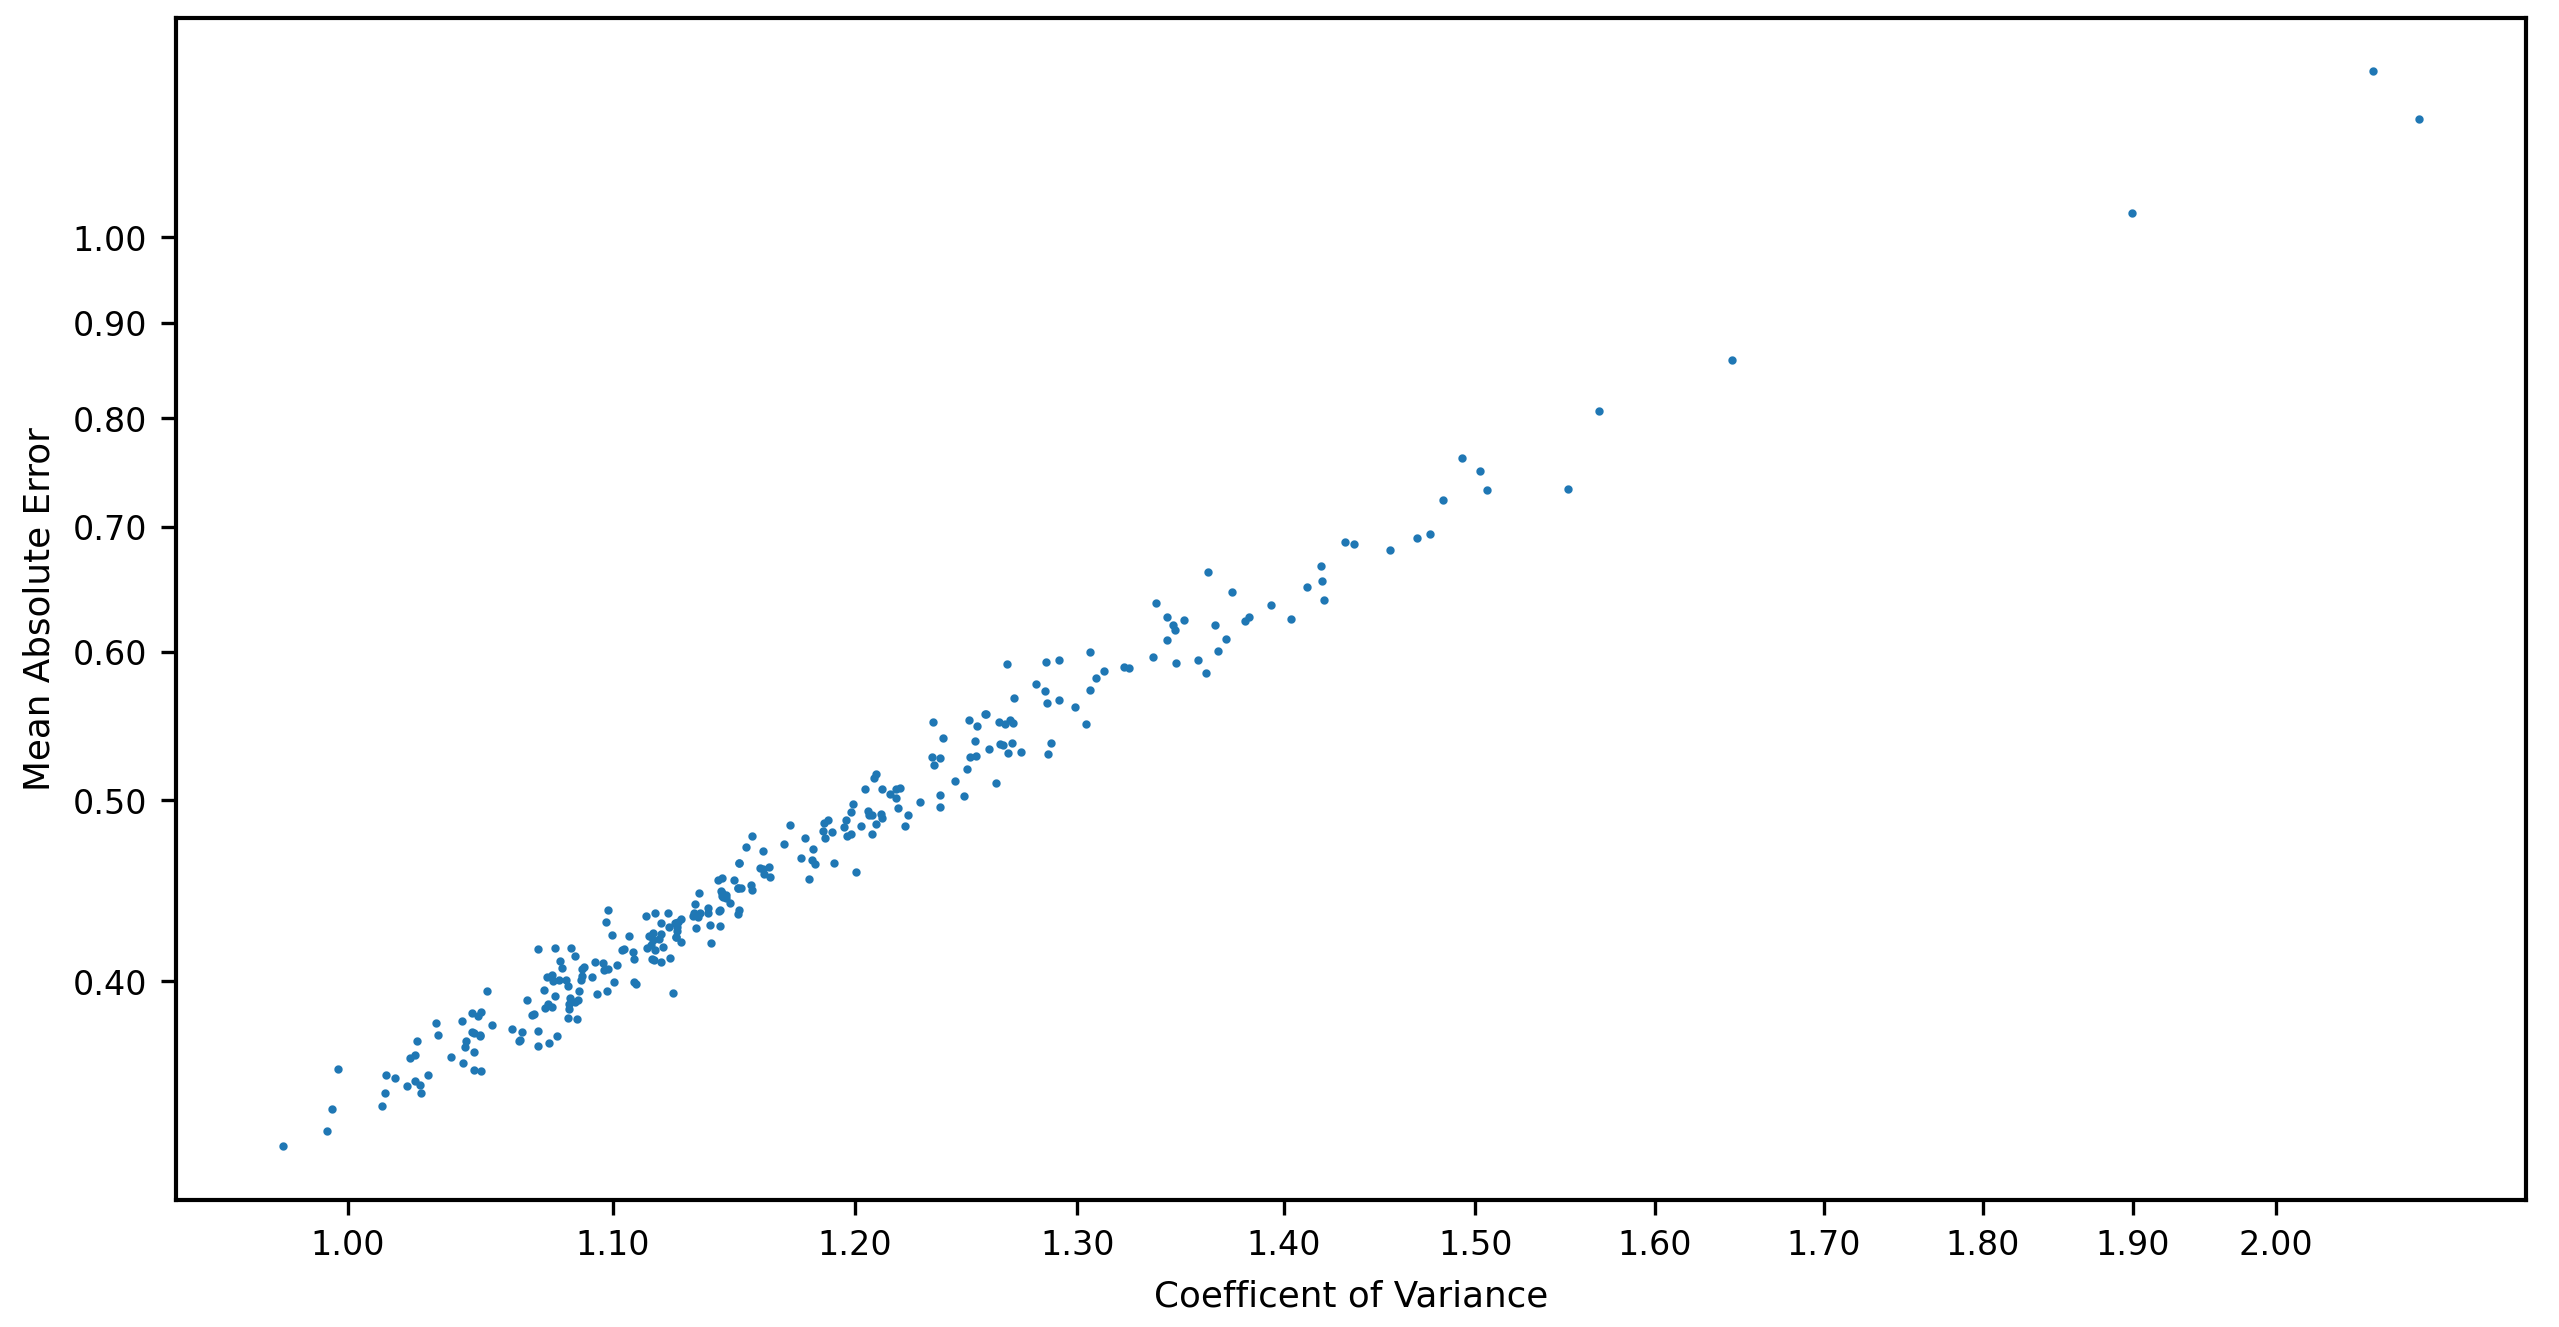
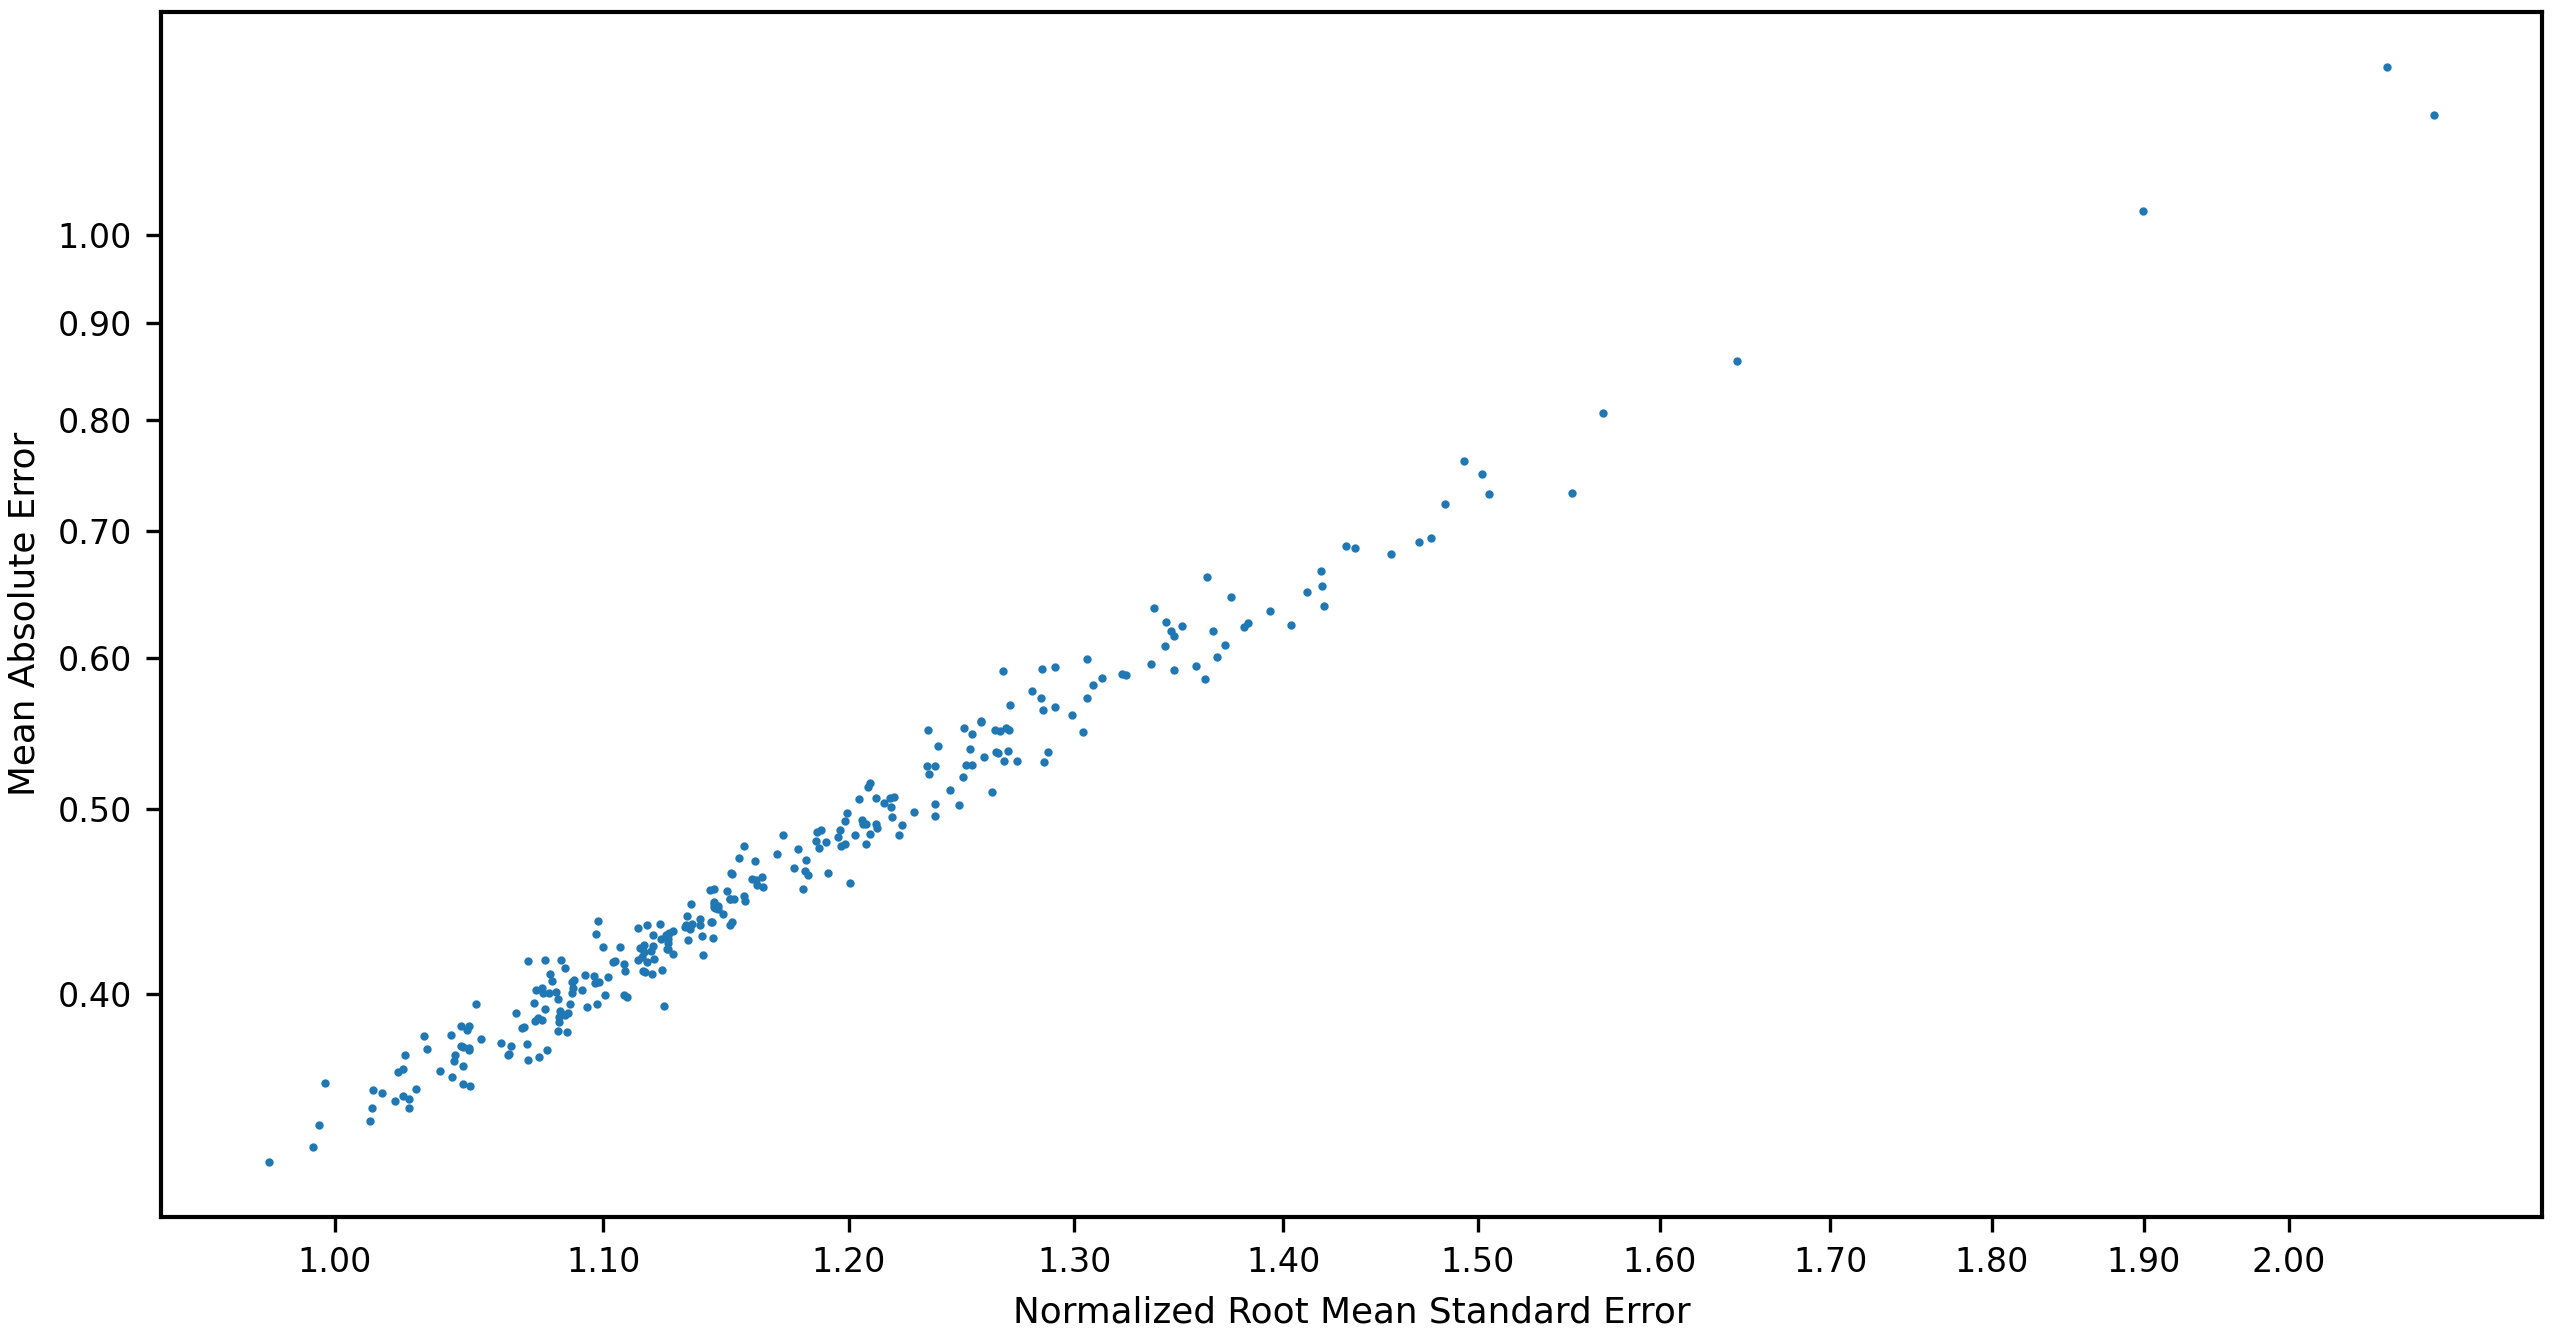
Added function axis with log spacing

Changed region(s): [[0.0, 0.0, 1.0, 1.0], [0.1235, 0.4635, 0.4939, 0.8342]]

diff --git a/goof_graph.py b/goof_graph.py
@@ -1,0 +1,69 @@
+import pandas as pd
+import re
+import matplotlib.pyplot as plt
+
+# Global font sizes
+plt.rcParams.update({
+    'font.size':        6,
+    'axes.titlesize':   6,
+    'axes.labelsize':   6,
+    'xtick.labelsize':  6,
+    'ytick.labelsize':  6,
+})
+
+# Load & parse
+df = pd.read_csv('results.csv')
+df.columns = df.columns.str.lower().str.strip()
+
+sizes, shapes, epochs, lrs, optimizers = [], [], [], [], []
+for model_name in df["model"]:
+    sizes.append("small"  if "small"  in model_name else
+                 "medium" if "medium" in model_name else
+                 "large"  if "large"  in model_name else "unknown")
+    match_shape  = re.search(r'layers_(.*?)_\d+', model_name)
+    match_epochs = re.search(r'_(\d+)_',      model_name)
+    match_lr     = re.search(r'_(0\.\d+)_',   model_name)
+    shapes.append(match_shape.group(1).replace('_',' ') if match_shape else "unknown")
+    epochs.append(int(match_epochs.group(1))      if match_epochs else -1)
+    lrs.append(float(match_lr.group(1))           if match_lr else 5e-05)
+    optimizers.append("AdamW" if "AdamW" in model_name else "Adam")
+
+df["size"]         = sizes
+df["shapetype"]    = shapes
+df["epochs"]       = epochs
+df["learningrate"] = lrs
+df["optimizer"]    = optimizers
+
+df['xgroup'] = df['size'] + ' | ' + df['shapetype']
+df['ygroup'] = df['epochs'].astype(str) + ' | ' + df['learningrate'].astype(str)
+
+# 2) Compute global color range
+global_min = df['mse'].min()
+global_max = df['mse'].max()
+
+# 3) Plot with the same vmin/vmax
+fig, axes = plt.subplots(1, 2, figsize=(14, 6), dpi=300, constrained_layout=True)
+for ax, opt in zip(axes, ['Adam', 'AdamW']):
+    subset = df[df['optimizer'] == opt]
+    pivot = subset.pivot(index='ygroup', columns='xgroup', values='mse')
+    im = ax.imshow(
+        pivot.values,
+        aspect='auto',
+        vmin=global_min,
+        vmax=global_max
+    )
+    ax.set_xticks(range(len(pivot.columns)))
+    ax.set_xticklabels(pivot.columns, rotation=45, ha='right')
+    ax.set_yticks(range(len(pivot.index)))
+    ax.set_yticklabels(pivot.index, rotation=0)
+    ax.set_xlabel('Size | ShapeType')
+    ax.set_ylabel('Epochs | LearningRate')
+
+    # individual colorbar
+    cbar = fig.colorbar(im, ax=ax, label='MSE')
+    cbar.ax.tick_params(labelsize=6)
+    cbar.set_label('MSE', fontsize=8)
+
+# plt.tight_layout()
+plt.savefig("heatmaps.png", dpi=300)
+plt.show()

diff --git a/test3.py b/test3.py
@@ -1,0 +1,16 @@
+import pandas as pd
+import numpy as np
+import matplotlib.pyplot as plt
+import re
+
+results = pd.read_csv("results.csv")
+y_test = pd.read_csv("data/y_test.csv")
+Models = results["Model"]
+MSE = results["MSE"]
+R2 =  results["R^2"]
+MAE =  results["MAE"]
+CV =  results["CV"]
+Count =  results["Count"]
+
+print(y_test.mean())
+

diff --git a/scatter.py b/scatter.py
@@ -24,7 +24,7 @@ ax.set_xscale('log')
 ax.set_yscale('log')
 
 ax.scatter(CV, MAE, s=1)
-ax.set_xlabel("Coefficent of Variance")
+ax.set_xlabel("Normalized Root Mean Standard Error")
 ax.set_ylabel("Mean Absolute Error")
 
 # ------------------------------------------------------------------
